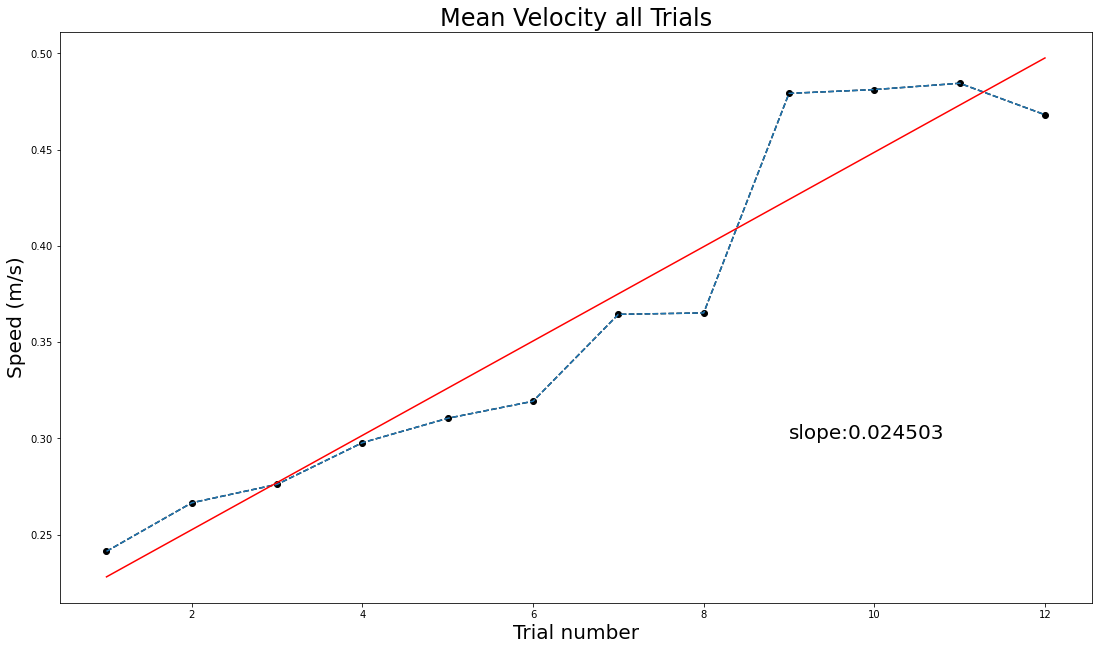
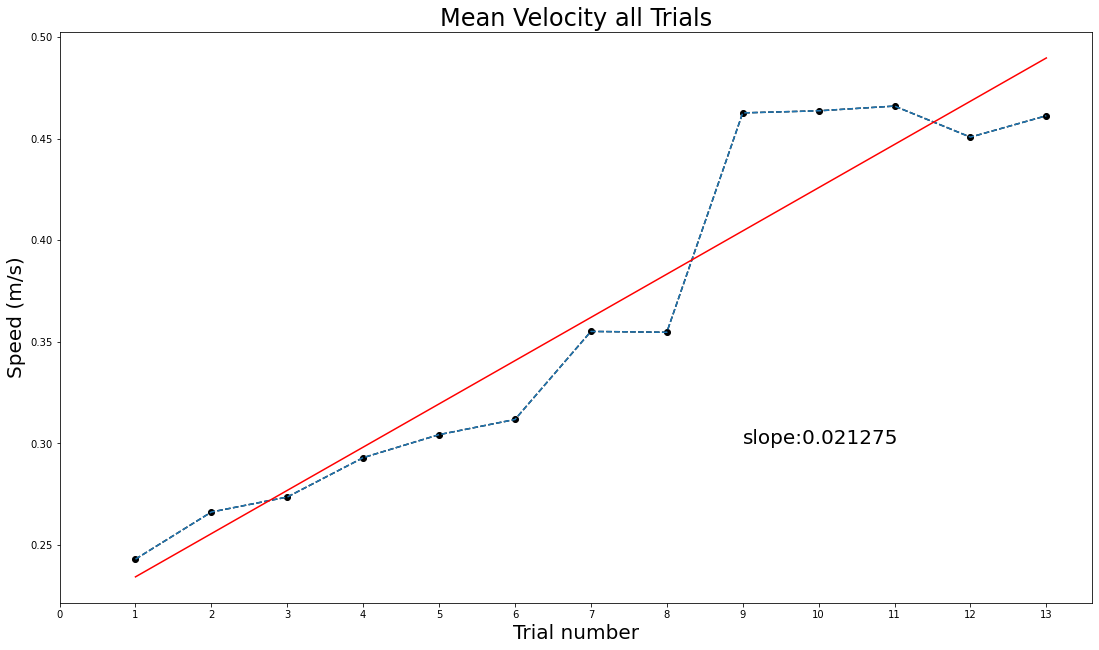
fixed colors velocity graph

diff --git a/tools/VelocityPlotter.py b/tools/VelocityPlotter.py
@@ -88,107 +88,101 @@ def velocities(fname2,nl):
     values=[]
     timespace=[]
     vel=None
-    j=0
+    j=-1
     count=0
    # nodes_dict = mask.create_node_dict(nl)
-                ##read velocities 
+     ##read velocities 
     with open(name2,'r') as summary:
            velocities=[]
-           
-           nx, nsteps = 100, 20
-           x = np.linspace(0, 1, nx)
            lines = summary.readlines()
-           for line in lines:    
-             if 'Summary' in line:  # and flagsum
-                   #i+=1                   
-                   if len(velocities) >= 2:
-                      j+=1                        
-                      for i in range(1, len(velocities)): #points[i]
-                        append_value(trials=trials, key=j, value=velocities[i])
-                        append_value(trials=st, key=j, value=timespace[i])
-                      velocities=[]
-                      timespace=[]
-                   flagsum= False       
-             if 'Start' in line:
-                 flagsum=True 
-                 count=0             
-             if flagsum:
-                     if (".") in line: #in line
+           for line in lines:  
+             if 'Summary' in line:
+                 flagsum=False 
+             if not flagsum: 
+                 if len(velocities) >= 2:                                             
+                       for i in range(0, len(velocities)):
+                            append_value(trials=trials, key=count, value=velocities[i])
+                            append_value(trials=st, key=count, value=timespace[i])
+                 velocities=[]
+                 timespace=[]
+                                   
+             if 'Start' in line:  
+                   count+=1
+                   flagsum=True  
+             if flagsum:                     
+                     if (".") in line:                   
                         values = line.split()
                         timespace.append((float(values[4]),float(values[5])))
                         velocities.append(float(values[-1]))
+            # handle last trial
+           print('file ended with',count,'trials')
+           for i in range(0, len(velocities)):
+                  append_value(trials=trials, key=count, value=velocities[i])
+                  append_value(trials=st, key=count, value=timespace[i])
+                            
+            
     summary.close() 
     graph_speed_averages(trials)
-   # fig1.show()
     plt.show()
     graph_space_time(st)
     plt.show()
-    #fig2.show()
     
- #   graph(st,trials)   
-
 def graph_speed_averages(trials):
-    plt.rcParams["figure.figsize"] = (18.5,10.5)
- 
-    #cmap = mpl.cm.autumn
-    
+    ##plot averages velocities of each trial
+    plt.rcParams["figure.figsize"] = (18.5,10.5) 
+    #cmap = mpl.cm.autumn    
     velocity=[]
     trial_num=[]
     means=[]
-    print('SUMMARY AVERAGE VELOCITY')
+    print('\nSUMMARY AVERAGE VELOCITY')
     for k in trials:
         for vel in trials[k]:
             velocity.append(vel)            ##appen vel                            
         means.append(stat.mean(velocity))   ##calculate mean within trial
         trial_num.append(k)          ##append trial num  
-        print('\nTrial number',k,'Mean Velocity:', means[-1])
+        print('Trial number',k,'Mean Velocity:', means[-1])
     plt.plot(trial_num, means,linestyle='--', marker='o', color='k')
-   # fig= plt.gcf()
     find_intercept(x=trial_num, y=means)
- #   plt.show()
-   # fig1= plt.gcf()
-    #fig1.show()
-   # fig1.show()
     
 def graph_space_time(st): 
     plt.rcParams["figure.figsize"] = (18.5,10.5)
-    i=1
     time=[]
     space=[]
     x=[]
     y=[]
-      #  print('st', st)
+    num=-1
+    n = len(st)+1
+    colors = plt.cm.jet(np.linspace(0,1,n))    
+   # print('st', st)
     ##plot space and time for all nodes passed in all trials
-    for key in st:        
+    for key in st:   
+      num+=1
       for i in range(0,len(st[key])):
           t=round(float(st[key][i][0]),2) 
           s=round(float(st[key][i][1]),2)
           time.append(t)         
           space.append(s)
-         
-          if i+1 ==len(st[key]):         
-           x=np.cumsum(time)
-           y=np.cumsum(space)
+      ##cumulative sum of each trial time and space                    
+      x=np.cumsum(time)
+      y=np.cumsum(space)
           
       space=[]
-      time=[]              
-      #print('trial',key,i,'len',len(st[key]),'time',x,'space',y)  
+      time=[]            
+      color=colors[key]
       
-      plot_velocities(x,y,key)
+      plt.plot(x,y,label='Trial{}'.format(key),linestyle='--', marker='o',color=color)
+     
+    
+    plt.legend(loc='right', frameon=False) 
     plt.title('Space/Time all nodes in all Trials',fontsize=24)
     plt.xlabel('Space (meters)',fontsize=20)
-    plt.ylabel('Time (seconds)', fontsize=20)              #break  
-    plt.legend(loc='right', frameon=False) 
-    plt.figure(figsize=((18.5,10.5)))
-    plt.show()
+    plt.ylabel('Time (seconds)', fontsize=20) 
+    plt.xticks(np.arange(0, 300, 10)) 
+    plt.yticks(np.arange(0, 30, 1)) 
+   # plt.figure(figsize=((18.5,10.5)))
+    plt.show()    
     
-def plot_velocities(x,y,key):  
- 
-    #cmap = mpl.cm.autumn
-    #for j in range(0,len(x)):
-    plt.plot(x,y,label='Trial{}'.format(key),linestyle='--', marker='o')
-    
-          
+         
 def find_intercept(x,y):  
     # Find the slope and intercept of the best fit line        
  slope, intercept = np.polyfit(x, y, 1)
@@ -197,12 +191,14 @@ def find_intercept(x,y):
  abline_values = [slope * i + intercept for i in x]
 
 # Plot the best fit line over the actual values
+ tick=len(x)+1
  plt.plot(x, y, '--')
  plt.plot(x, abline_values, 'r')
  plt.text(9,0.3, s='slope:{}'.format(round(slope,6)), fontsize=20)
  plt.title('Mean Velocity all Trials',fontsize=24) 
  plt.xlabel('Trial number',fontsize=20)
  plt.ylabel('Speed (m/s)',fontsize=20) 
+ plt.xticks(np.arange(0, tick, 1)) 
  plt.figure(figsize=((18.5,10.5)))
  plt.show()
 
@@ -210,7 +206,7 @@ def find_intercept(x,y):
 def append_value(trials, key, value):
     # Check if key exist in dict or not
     if key in trials:
-        # Key exist in dict.
+        #if Key exist in dict.
         # Check if type of value of key is list or not
         if not isinstance(trials[key], list):
             # If type is not list then make it list
@@ -218,8 +214,7 @@ def append_value(trials, key, value):
         # Append the value in list
         trials[key].append(value)
     else:
-        # As key is not in dict,
-        # so, add key-value pair
+        # As key is not in dict,so, add key-value pair
         trials[key] = value
     return trials
         
